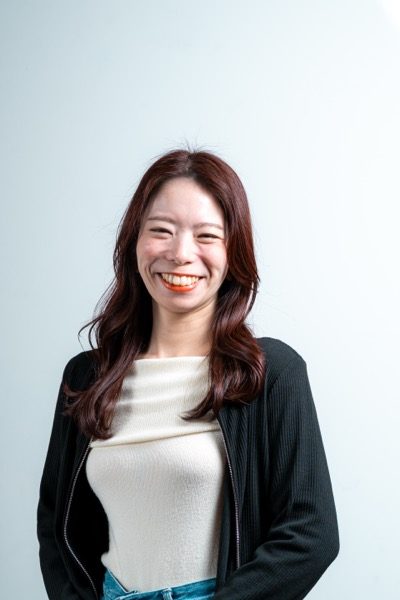
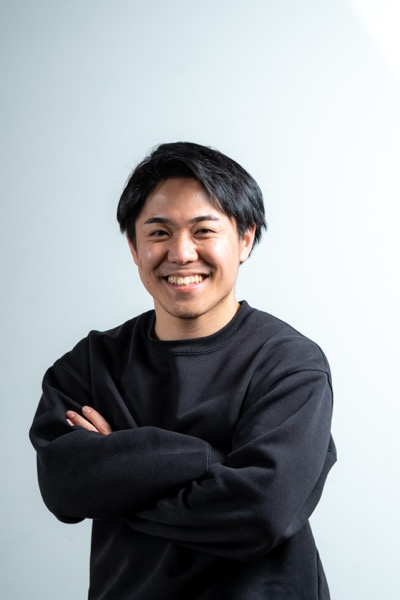
chore: アドバイザー中央を八矢に変更（写真CA4に差し替え）
- 表示名とalt属性を 清野 → 八矢 に変更（サンクス3版）
- 写真を CA4.jpg から既存仕様(400x600)に縮小して advisor2.jpg を差し替え

diff --git a/thanks.html b/thanks.html
@@ -393,9 +393,9 @@
                     </div>
                     <div class="v4-advisor">
                         <div class="v4-advisor-av">
-                            <img src="/v4/img/advisor2.jpg" alt="清野">
+                            <img src="/v4/img/advisor2.jpg" alt="八矢">
                         </div>
-                        <div class="v4-advisor-nm">清野</div>
+                        <div class="v4-advisor-nm">八矢</div>
                     </div>
                     <div class="v4-advisor">
                         <div class="v4-advisor-av">

diff --git a/v3/thanks.html b/v3/thanks.html
@@ -393,9 +393,9 @@
                     </div>
                     <div class="v4-advisor">
                         <div class="v4-advisor-av">
-                            <img src="/v4/img/advisor2.jpg" alt="清野">
+                            <img src="/v4/img/advisor2.jpg" alt="八矢">
                         </div>
-                        <div class="v4-advisor-nm">清野</div>
+                        <div class="v4-advisor-nm">八矢</div>
                     </div>
                     <div class="v4-advisor">
                         <div class="v4-advisor-av">

diff --git a/v4/thanks.html b/v4/thanks.html
@@ -393,9 +393,9 @@
                     </div>
                     <div class="v4-advisor">
                         <div class="v4-advisor-av">
-                            <img src="img/advisor2.jpg" alt="清野">
+                            <img src="img/advisor2.jpg" alt="八矢">
                         </div>
-                        <div class="v4-advisor-nm">清野</div>
+                        <div class="v4-advisor-nm">八矢</div>
                     </div>
                     <div class="v4-advisor">
                         <div class="v4-advisor-av">